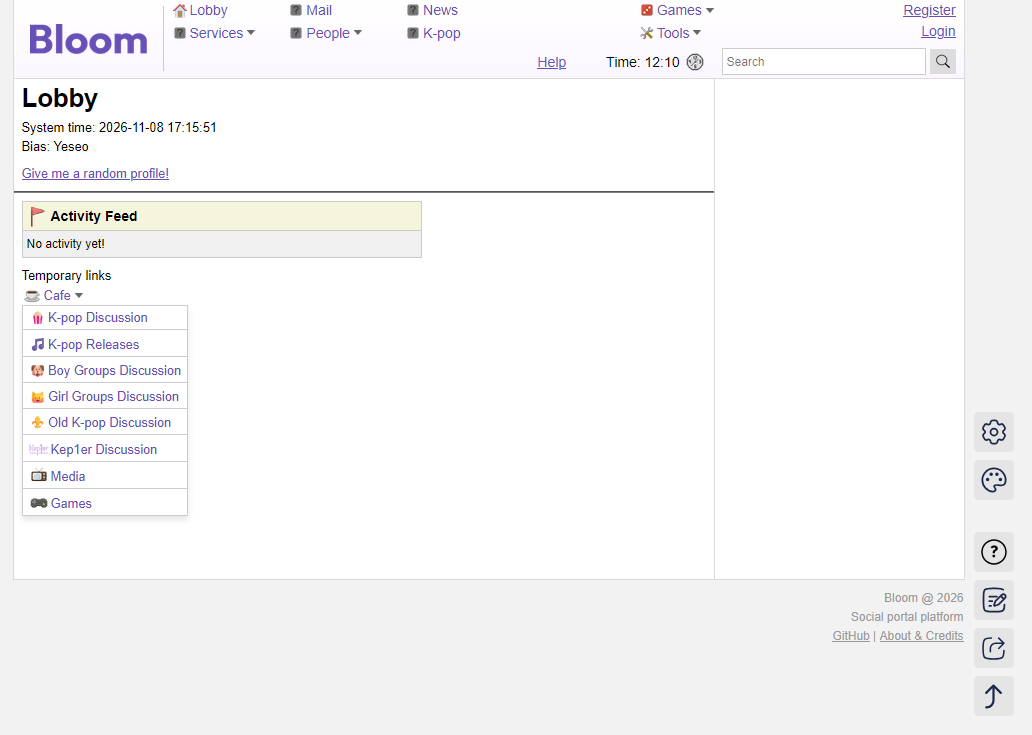
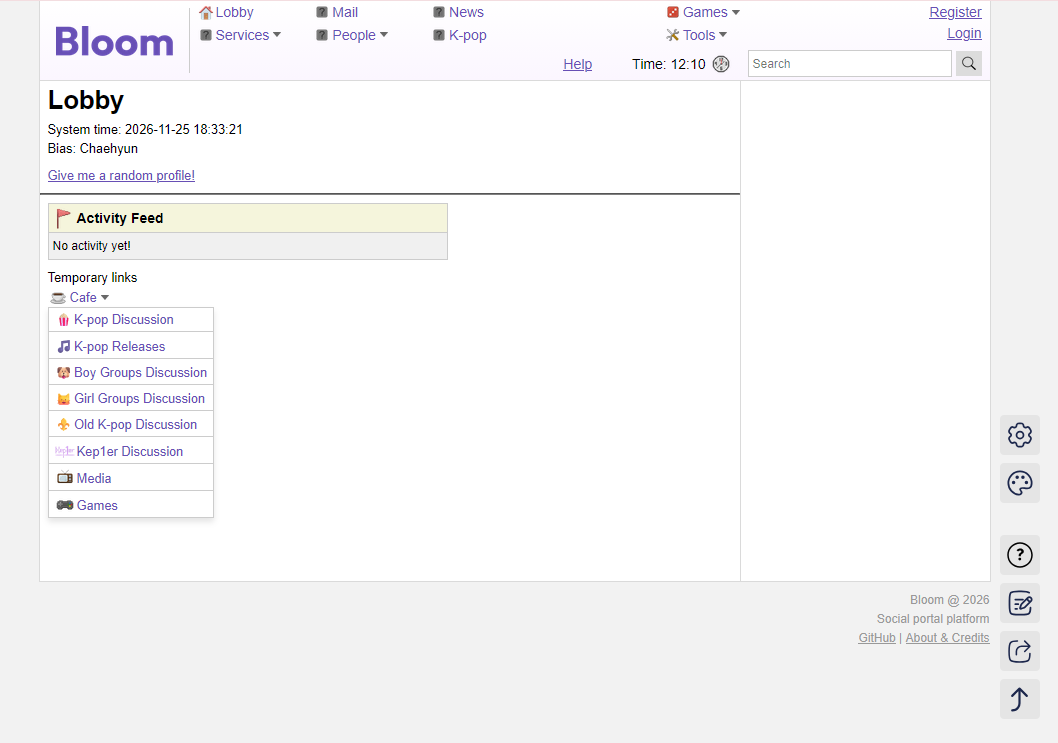
Update to lighter colors

diff --git a/assets/templates/cafe/topiclist.html b/assets/templates/cafe/topiclist.html
@@ -46,7 +46,7 @@
       align-items: center;
       padding: 4px;
       padding-left: 2px;
-      background: linear-gradient(to bottom, white, #f2deff);
+      background: linear-gradient(to bottom, white, #f7eaff);
       border-left: 1px solid var(--border-color);
       border-right: 1px solid var(--border-color);
       border-bottom: 1px solid var(--border-color);

diff --git a/assets/site/base.css b/assets/site/base.css
@@ -21,8 +21,8 @@
   --site-bg-color: #f2f2f2;
   --content-bg-color: #ffffff;
   --toolbar-gradient-end: #fbf6ff;
-  --primary-gradient-start: #c897f0;
-  --primary-gradient-end: #9e72c2;
+  --primary-gradient-start: #efd8ff;
+  --primary-gradient-end: #dec1f6;
   --primary-gradient: linear-gradient(
     to bottom,
     var(--primary-gradient-start),
